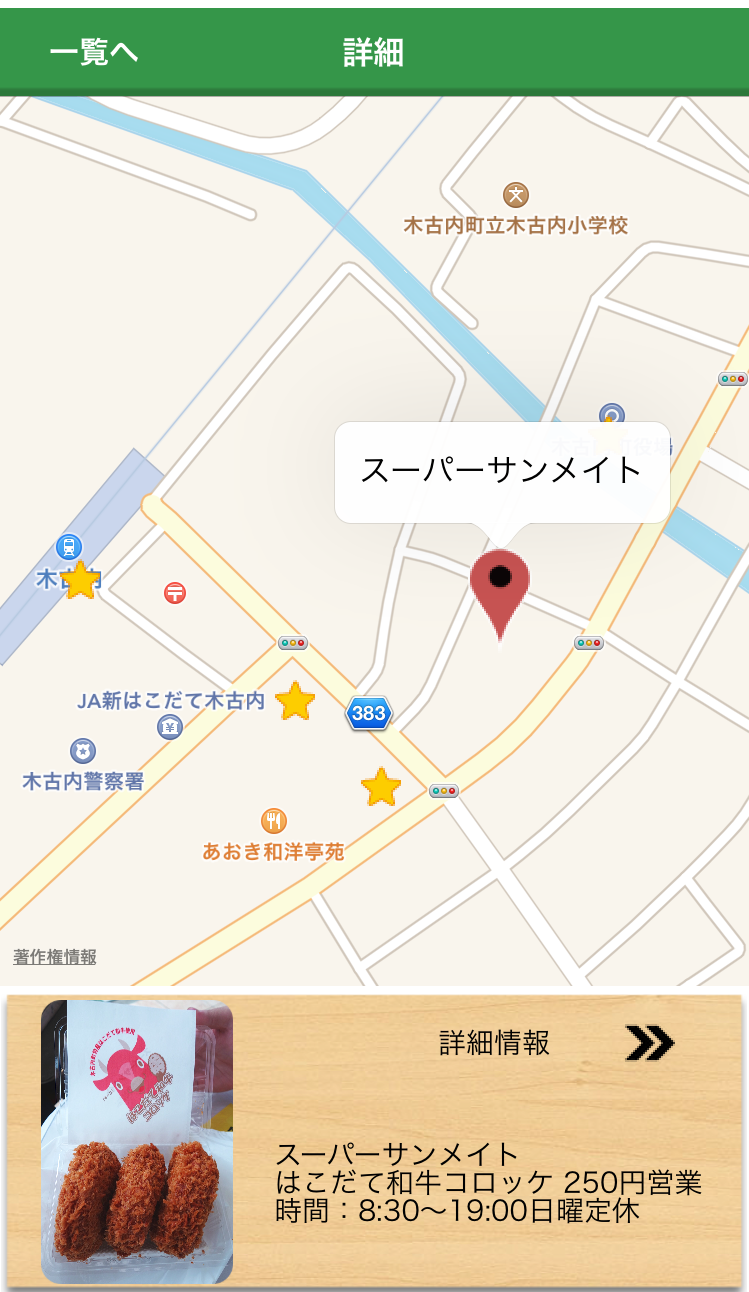
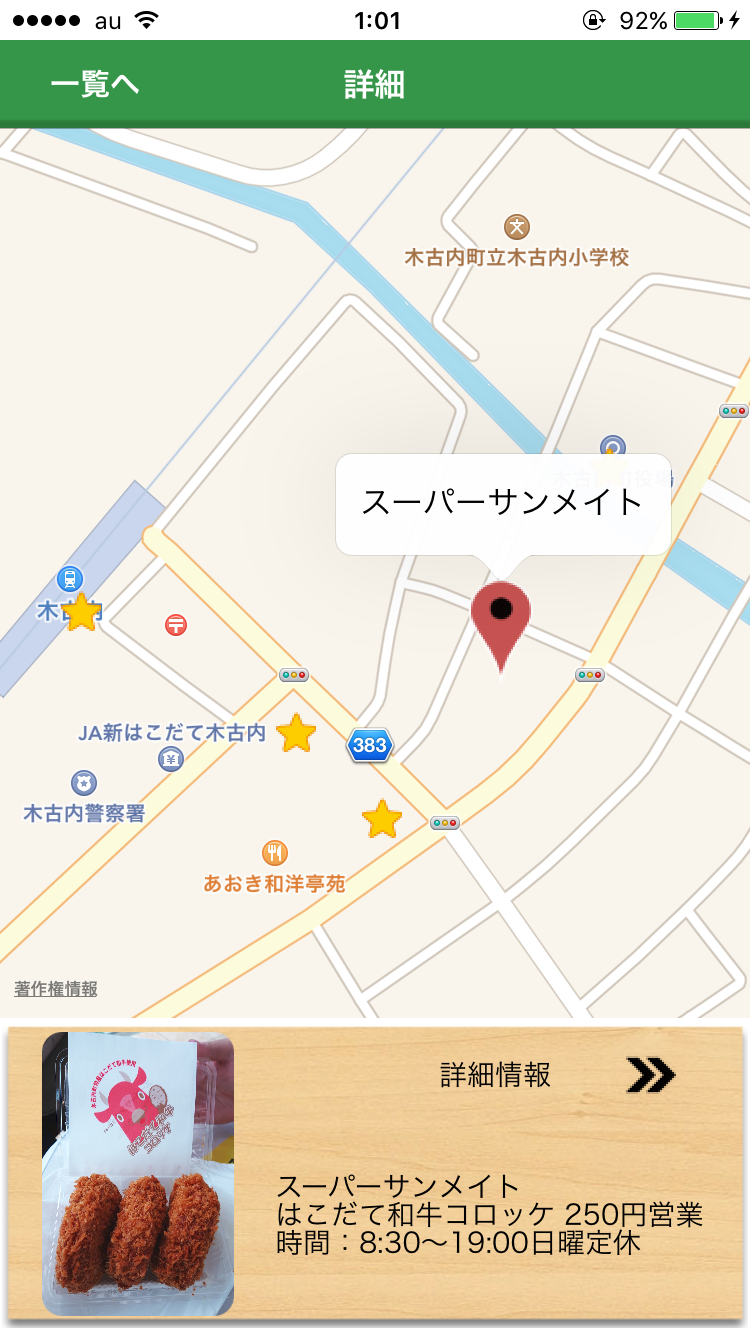
画像の位置を揃えるために、コードのサイズ指定と図6.2の画像を変更した

diff --git a/kiko_map.tex b/kiko_map.tex
@@ -32,7 +32,7 @@
       % 1
       \begin{minipage}{0.33\hsize}
         \begin{center}
-\includegraphics[width=4cm, bb=0 0 303 573]{kiko_map1.png}
+\includegraphics[width=4cm, bb=0 0 705 1334]{kiko_map1.png}
           \hspace{1cm} (a)観光スポットの詳細情報を表示中
         \end{center}
       \end{minipage}
@@ -40,7 +40,7 @@
       % 2
       \begin{minipage}{0.33\hsize}
         \begin{center}
-\includegraphics[width=4cm, bb=0 0 304 570]{kiko_map2.png}
+\includegraphics[width=4cm, bb=0 0 705 1334]{kiko_map2.png}
           \hspace{1cm} (b)観光スポットの紹介文を表示中
         \end{center}
       \end{minipage}
